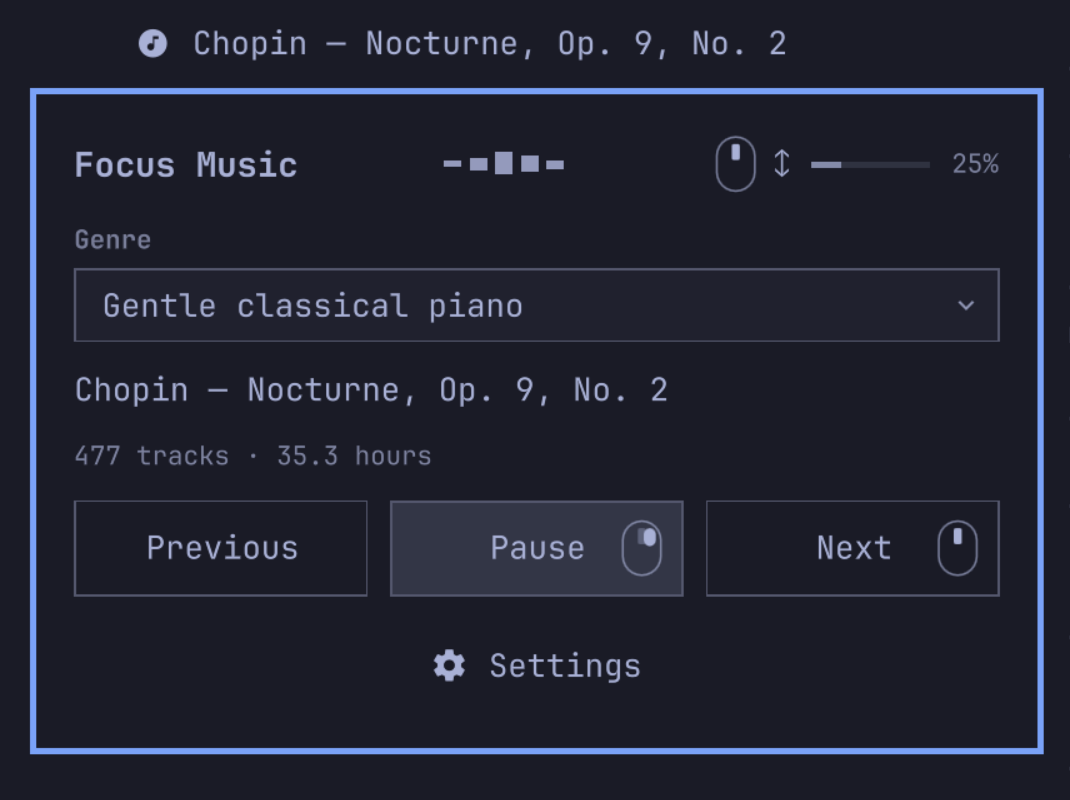
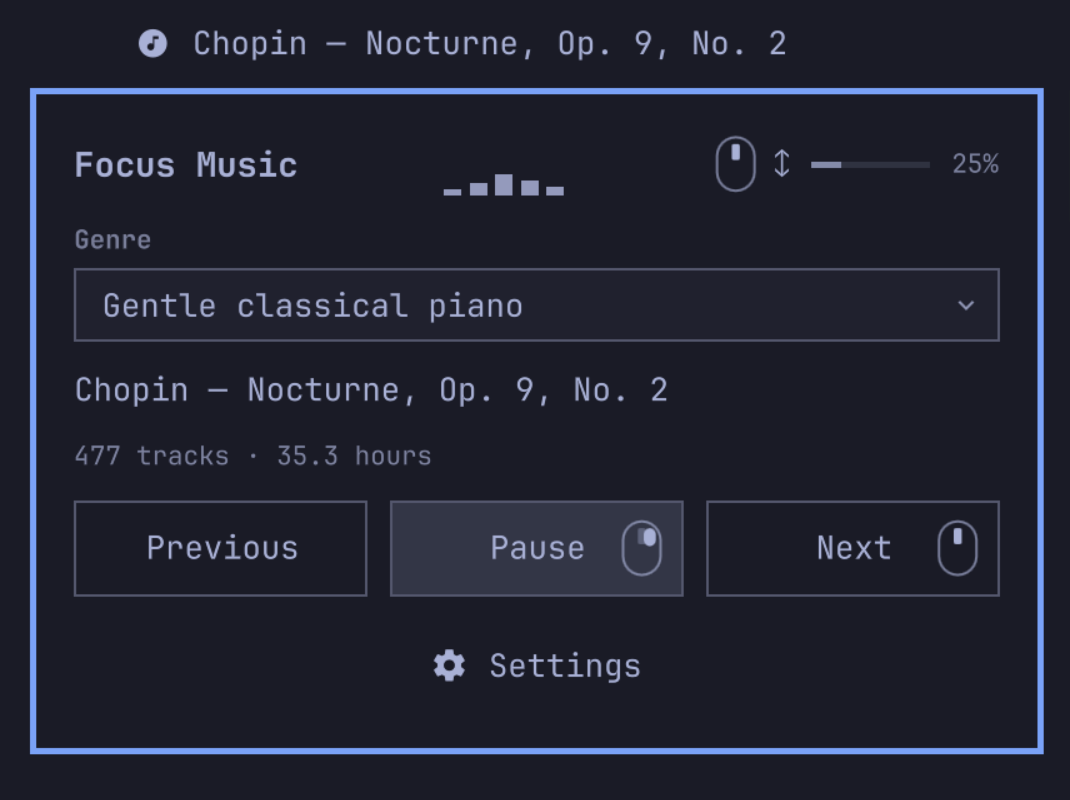
Widen visualizer bars and stabilize idle and track transition states

Changed region(s): [[0.4009, 0.1875, 0.5243, 0.25]]

diff --git a/BarWidget.qml b/BarWidget.qml
@@ -27,12 +27,13 @@ BarWidget {
     readonly property string displayMode: preferences.barDisplay || "banner"
     readonly property int bannerWidth: preferences.bannerWidth || Number(root.setting("bannerWidth", 180)) || 180
     readonly property int visualizerWidth: preferences.visualizerWidth || 100
+    readonly property int visualizerBarCount: Math.max(5, Math.min(30, Math.floor((visualizerWidth - 16) / 16)))
     property var popupBands: [0, 0, 0, 0, 0]
     property var spectrumBands: [0, 0, 0, 0, 0]
-    readonly property bool spectrumWanted: playbackPhase === "Playing" && (displayMode === "visualizer" || popupOpen)
+    readonly property bool spectrumWanted: (playbackPhase === "Playing" || playbackPhase === "Loading") && (displayMode === "visualizer" || popupOpen)
     onSpectrumWantedChanged: {
         spectrumProcess.running = spectrumWanted
-        if (!spectrumWanted) spectrumBands = [0, 0, 0, 0, 0]
+        if (!spectrumWanted) { spectrumBands = []; popupBands = [0, 0, 0, 0, 0] }
     }
     function savePreference(key, value) {
         var next = Object.assign({}, preferences)
@@ -58,10 +59,10 @@ BarWidget {
                 try { var frame = JSON.parse(line); root.spectrumBands = frame.bands || [0, 0, 0, 0, 0]; root.popupBands = frame.popupBands || root.spectrumBands.slice(0, 5) } catch (e) {}
             }
         }
-        onExited: root.spectrumBands = [0, 0, 0, 0, 0]
+        onExited: { root.spectrumBands = []; root.popupBands = [0, 0, 0, 0, 0] }
     }
     Timer {
-        interval: 3000
+        interval: 750
         running: root.spectrumWanted
         repeat: true
         onTriggered: if (!spectrumProcess.running) spectrumProcess.running = true
@@ -71,7 +72,7 @@ BarWidget {
     property bool playbackPending: false
     readonly property string playbackPhase: playbackOverride || player.phase
     function togglePlayback() {
-        playbackOverride = playbackPhase === "Playing" ? "Paused" : "Playing"
+        playbackOverride = (playbackPhase === "Playing" || playbackPhase === "Loading") ? "Paused" : "Playing"
         playbackPending = true
         flushPlayback()
     }
@@ -214,6 +215,7 @@ BarWidget {
             anchors.rightMargin: Style.space(8)
             anchors.verticalCenter: parent.verticalCenter
             height: Style.space(19)
+            barCount: root.visualizerBarCount
             bands: root.spectrumBands
             volume: root.displayedVolume * Number(root.player.volume_factor === undefined ? 1 : root.player.volume_factor)
             playing: root.playbackPhase === "Playing"
@@ -345,11 +347,12 @@ BarWidget {
                 }
                 Item {
                     Layout.fillWidth: true
+                    Layout.alignment: Qt.AlignBottom
                     implicitHeight: Style.space(24)
                     Spectrum {
                         objectName: "popupSpectrum"
-                        centered: true
-                        anchors.centerIn: parent
+                        anchors.horizontalCenter: parent.horizontalCenter
+                        anchors.bottom: parent.bottom
                         width: Style.space(48)
                         height: Style.space(24)
                         bands: root.popupBands
@@ -439,8 +442,8 @@ BarWidget {
                     Layout.maximumWidth: playbackControls.buttonWidth
                     Layout.preferredHeight: Style.space(36)
                     objectName: "playbackToggle"
-                    text: root.playbackPhase === "Playing" ? "Pause" : "Play"
-                    active: root.playbackPhase === "Playing"
+                    text: (root.playbackPhase === "Playing" || root.playbackPhase === "Loading") ? "Pause" : "Play"
+                    active: root.playbackPhase === "Playing" || root.playbackPhase === "Loading"
                     bordered: true
                     focusable: true
                     tooltipText: "Right-click to play or pause"

diff --git a/Spectrum.qml b/Spectrum.qml
@@ -6,18 +6,17 @@ Item {
     property var bands: [0, 0, 0, 0, 0]
     property real volume: 100
     property bool playing: false
-    property bool centered: false
+    property int barCount: 5
     property color foreground: Color.foreground
     implicitWidth: Style.space(48)
     implicitHeight: Style.space(24)
     Repeater {
-        model: root.bands.length
+        model: root.barCount
         Rectangle {
             required property int index
-            width: root.width / Math.max(1, root.bands.length) * 0.7
-            x: index * root.width / Math.max(1, root.bands.length)
-            anchors.bottom: root.centered ? undefined : parent.bottom
-            anchors.verticalCenter: root.centered ? parent.verticalCenter : undefined
+            width: root.width / Math.max(1, root.barCount) * 0.7
+            x: index * root.width / Math.max(1, root.barCount)
+            anchors.bottom: parent.bottom
             height: Math.max(Style.space(1.5), root.height * (root.playing ? Number(root.bands[index] || 0) : 0)
                              * Math.sqrt(Math.max(0, root.volume) / 100))
             color: root.foreground

diff --git a/tests/test_other_media.py b/tests/test_other_media.py
@@ -68,3 +68,23 @@ class OtherMediaTests(unittest.TestCase):
         self.player.configure({'otherMedia': 'none'})
         self.player.sync_other_media(True)
         self.assertEqual(self.props['volume'], 40)
+
+
+class TrackTransitionTests(unittest.TestCase):
+    def test_loading_track_keeps_its_metadata_and_pause_state(self):
+        with tempfile.TemporaryDirectory() as directory:
+            player = load_player(Path(directory))
+            source = player.SOURCES['lofi-hiphop']
+            player.save({'genre': 'lofi-hiphop', 'volume': 40,
+                         'active_order': [0, 1, 2], 'catalog_version': source['catalog_version']})
+            for idle, paused in ((False, False), (False, True), (True, False), (True, True)):
+                def prop(name):
+                    if name == 'playlist-pos':
+                        return 2
+                    if name == 'time-pos':
+                        raise RuntimeError('property unavailable')
+                    return None
+                with patch.object(player, 'ipc_many', return_value=iter([idle, paused, 40, source['tracks'][2]['url']])), patch.object(player, 'prop', side_effect=prop):
+                    status = player.status()
+                self.assertEqual(status['track_id'], source['tracks'][2]['id'])
+                self.assertEqual(status['phase'], 'Paused' if paused else 'Loading')

diff --git a/tests/test_spectrum_settings.py b/tests/test_spectrum_settings.py
@@ -12,7 +12,7 @@ from unittest.mock import patch
 from test_focus_music import ROOT, load_player
 
 sys.path.insert(0, str(ROOT / 'lib'))
-from focus_spectrum import SIZE, RATE, spectrum, player_node
+from focus_spectrum import SIZE, RATE, spectrum, player_node, bar_count
 import focus_preferences
 
 
@@ -31,6 +31,15 @@ class SpectrumTests(unittest.TestCase):
         quiet = spectrum([value * 0.2 ** 3 for value in reference], 20)
         for a, b in zip(loud, quiet):
             self.assertAlmostEqual(a, b, places=5)
+
+    def test_wider_bar_pitch_and_idle_count(self):
+        self.assertEqual(bar_count(80), 5)
+        self.assertEqual(bar_count(120), 6)
+        self.assertEqual(bar_count(240), 14)
+        self.assertEqual(bar_count(500), 30)
+        for width in (80, 120, 240, 500):
+            count = bar_count(width)
+            self.assertEqual(spectrum([0] * SIZE, count=count), [0] * count)
 
     def test_variable_band_counts_preserve_frequency_response(self):
         samples = [0.15 * math.sin(2 * math.pi * 1000 * i / RATE) for i in range(SIZE)]

diff --git a/lib/focus_spectrum.py b/lib/focus_spectrum.py
@@ -8,6 +8,11 @@ BOUNDARIES = (40, 160, 500, 1600, 5000, 10000)
 WINDOW = [0.5 - 0.5 * math.cos(2 * math.pi * i / (SIZE - 1)) for i in range(SIZE)]
 
 
+def bar_count(width):
+    """Keep a broad 16-unit pitch, matching the bar's logical layout."""
+    return max(5, min(30, (width - 16) // 16))
+
+
 def spectrum(samples, volume=100, count=5):
     values = [complex(samples[i] * WINDOW[i]) for i in range(SIZE)]
     j = 0

diff --git a/README.md b/README.md
@@ -177,7 +177,7 @@ Open the popup and choose **Settings** to change:
 
 - **Bar display:** scrolling artist/track banner, Visualizer, or compact music icon.
 - **Placement:** left of the date/time, right of the date/time, or among the right-hand icons. Choosing the right-hand icons also selects the compact icon and disables the optional bar/workspace hiding previously added by Focus Music.
-- **Width:** adjust the banner or Visualizer from 80 to 500 logical units. The wider the bar Visualizer, the more frequency bars it shows; the popup always keeps five bars centered between the title and volume. Both respond to playback volume.
+- **Width:** adjust the banner or Visualizer from 80 to 500 logical units. The wider the bar Visualizer, the more frequency bars it shows; the popup always keeps five bottom-anchored bars between the title and volume. A width of 120 gives six wider bars in the quickbar, with the same count while idle. Both respond to playback volume.
 - **When other media plays:** pause and resume to fill silence, lower volume greatly, lower volume slightly, or take no action.
 
 ![Focus Music display settings](docs/settings.png)
